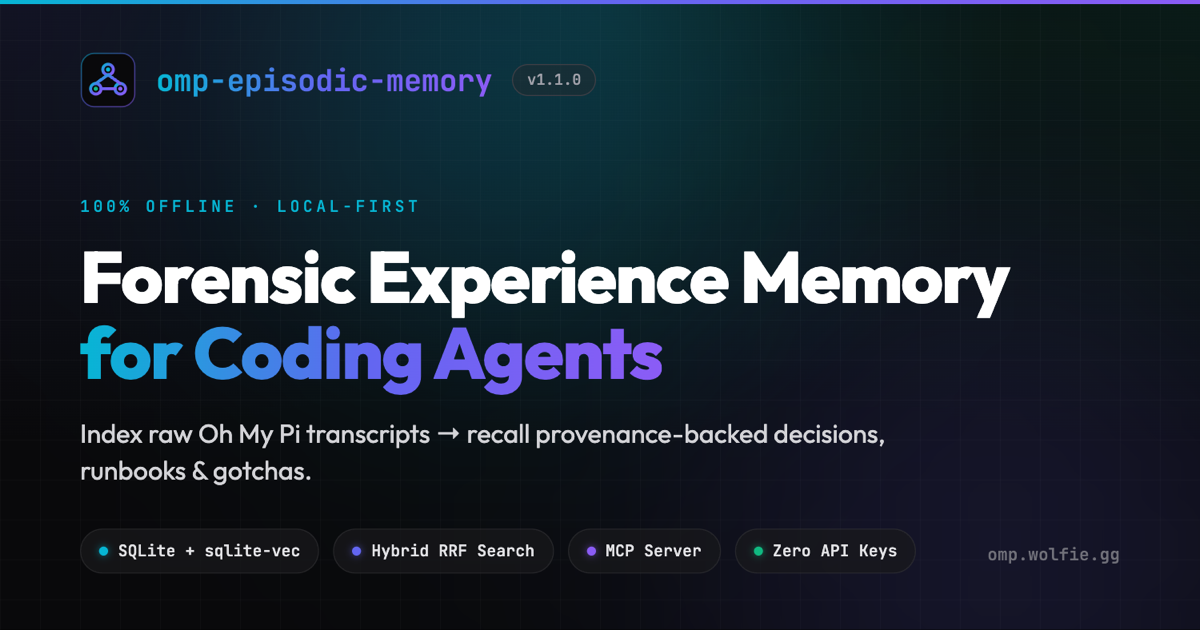
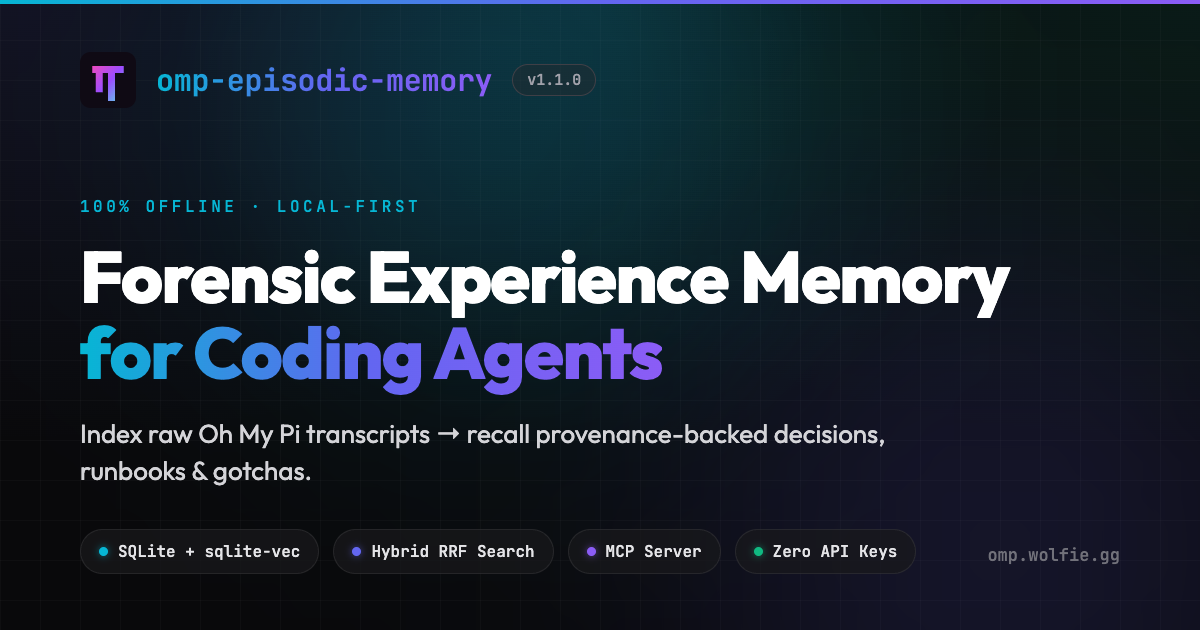
docs: adopt Oh My Pi pi mark across branding with attribution

diff --git a/docs/og-image-card.html b/docs/og-image-card.html
@@ -219,24 +219,16 @@
 
     <!-- Top bar -->
     <div class="topbar">
-      <svg class="mark" viewBox="0 0 64 64" xmlns="http://www.w3.org/2000/svg" aria-label="omp memory mark">
+      <svg class="mark" viewBox="0 0 64 64" xmlns="http://www.w3.org/2000/svg" aria-label="oh-my-pi mark">
         <defs>
           <linearGradient id="markGrad" x1="0" y1="0" x2="1" y2="1">
-            <stop offset="0" stop-color="#06b6d4"/>
-            <stop offset="0.5" stop-color="#6366f1"/>
-            <stop offset="1" stop-color="#8b5cf6"/>
+            <stop offset="0" stop-color="#ed4abf"/>
+            <stop offset="0.5" stop-color="#9b4dff"/>
+            <stop offset="1" stop-color="#5ad8e6"/>
           </linearGradient>
         </defs>
-        <rect x="1.5" y="1.5" width="61" height="61" rx="15" fill="#09090b" stroke="url(#markGrad)" stroke-width="1.5" stroke-opacity="0.5"/>
-        <g fill="none" stroke="url(#markGrad)" stroke-width="3.5" stroke-linecap="round" stroke-linejoin="round">
-          <circle cx="32" cy="20" r="6"/>
-          <circle cx="18" cy="42" r="6"/>
-          <circle cx="46" cy="42" r="6"/>
-          <path d="M32 26 L18 36 M32 26 L46 36 M24 42 L40 42"/>
-        </g>
-        <circle cx="32" cy="20" r="2.4" fill="#06b6d4"/>
-        <circle cx="18" cy="42" r="2.4" fill="#10b981"/>
-        <circle cx="46" cy="42" r="2.4" fill="#8b5cf6"/>
+        <rect width="64" height="64" rx="12" fill="#0f0a14"/>
+        <path fill="url(#markGrad)" d="M14 16h36v8H40v32h-8V24h-6v22h-8V24h-4z"/>
       </svg>
       <span class="wordmark gradient-text">omp-episodic-memory</span>
       <span class="pill">v1.1.0</span>

diff --git a/docs/index.html b/docs/index.html
@@ -175,17 +175,13 @@
         <svg class="w-7 h-7" viewBox="0 0 64 64" fill="none" aria-hidden="true">
           <defs>
             <linearGradient id="navmark" x1="0" y1="0" x2="1" y2="1">
-              <stop offset="0" stop-color="#06b6d4"/>
-              <stop offset="0.5" stop-color="#6366f1"/>
-              <stop offset="1" stop-color="#8b5cf6"/>
+              <stop offset="0" stop-color="#ed4abf"/>
+              <stop offset="0.5" stop-color="#9b4dff"/>
+              <stop offset="1" stop-color="#5ad8e6"/>
             </linearGradient>
           </defs>
-          <g stroke="url(#navmark)" stroke-width="3.5" stroke-linecap="round" stroke-linejoin="round">
-            <circle cx="32" cy="20" r="6"/>
-            <circle cx="18" cy="42" r="6"/>
-            <circle cx="46" cy="42" r="6"/>
-            <path d="M32 26 L18 36 M32 26 L46 36 M24 42 L40 42"/>
-          </g>
+          <rect width="64" height="64" rx="12" fill="#0f0a14"/>
+          <path fill="url(#navmark)" d="M14 16h36v8H40v32h-8V24h-6v22h-8V24h-4z"/>
         </svg>
         <span class="font-bold text-lg tracking-tight bg-gradient-to-r from-brand-cyan via-brand-indigo to-brand-purple bg-clip-text text-transparent">
           omp-episodic-memory
@@ -801,6 +797,9 @@ Done! Index size: 2.4 MB.
       </p>
       <p class="text-xs text-zinc-700 mt-2">
         Built for the Oh My Pi community and agent developer ecosystem.
+      </p>
+      <p class="text-xs text-zinc-700 mt-2">
+        π mark derived from the <a href="https://github.com/can1357/oh-my-pi" target="_blank" rel="noopener" class="text-zinc-500 hover:text-brand-cyan transition-colors">Oh My Pi</a> logo (MIT) — see <a href="THIRD_PARTY_NOTICES.md" class="text-zinc-500 hover:text-brand-cyan transition-colors">notices</a>. Not officially affiliated.
       </p>
     </div>
   </footer>

diff --git a/docs/THIRD_PARTY_NOTICES.md b/docs/THIRD_PARTY_NOTICES.md
@@ -1,0 +1,38 @@
+# Third-Party Notices
+
+This site bundles the following third-party asset(s).
+
+## Oh My Pi logo (π mark)
+
+The gradient "π" mark used in the site favicon (`favicon.svg`), header, and
+social-share card (`og-image.png`) is derived from the Oh My Pi project logo.
+
+Source: https://github.com/can1357/oh-my-pi
+
+```
+MIT License
+
+Copyright (c) 2025 Mario Zechner
+Copyright (c) 2025-2026 Can Bölük
+
+Permission is hereby granted, free of charge, to any person obtaining a copy
+of this software and associated documentation files (the "Software"), to deal
+in the Software without restriction, including without limitation the rights
+to use, copy, modify, merge, publish, distribute, sublicense, and/or sell
+copies of the Software, and to permit persons to whom the Software is
+furnished to do so, subject to the following conditions:
+
+The above copyright notice and this permission notice shall be included in all
+copies or substantial portions of the Software.
+
+THE SOFTWARE IS PROVIDED "AS IS", WITHOUT WARRANTY OF ANY KIND, EXPRESS OR
+IMPLIED, INCLUDING BUT NOT LIMITED TO THE WARRANTIES OF MERCHANTABILITY,
+FITNESS FOR A PARTICULAR PURPOSE AND NONINFRINGEMENT. IN NO EVENT SHALL THE
+AUTHORS OR COPYRIGHT HOLDERS BE LIABLE FOR ANY CLAIM, DAMAGES OR OTHER
+LIABILITY, WHETHER IN AN ACTION OF CONTRACT, TORT OR OTHERWISE, ARISING FROM,
+OUT OF OR IN CONNECTION WITH THE SOFTWARE OR THE USE OR OTHER DEALINGS IN THE
+SOFTWARE.
+```
+
+`omp-episodic-memory` is an independent project and is not officially affiliated
+with or endorsed by the Oh My Pi maintainers.